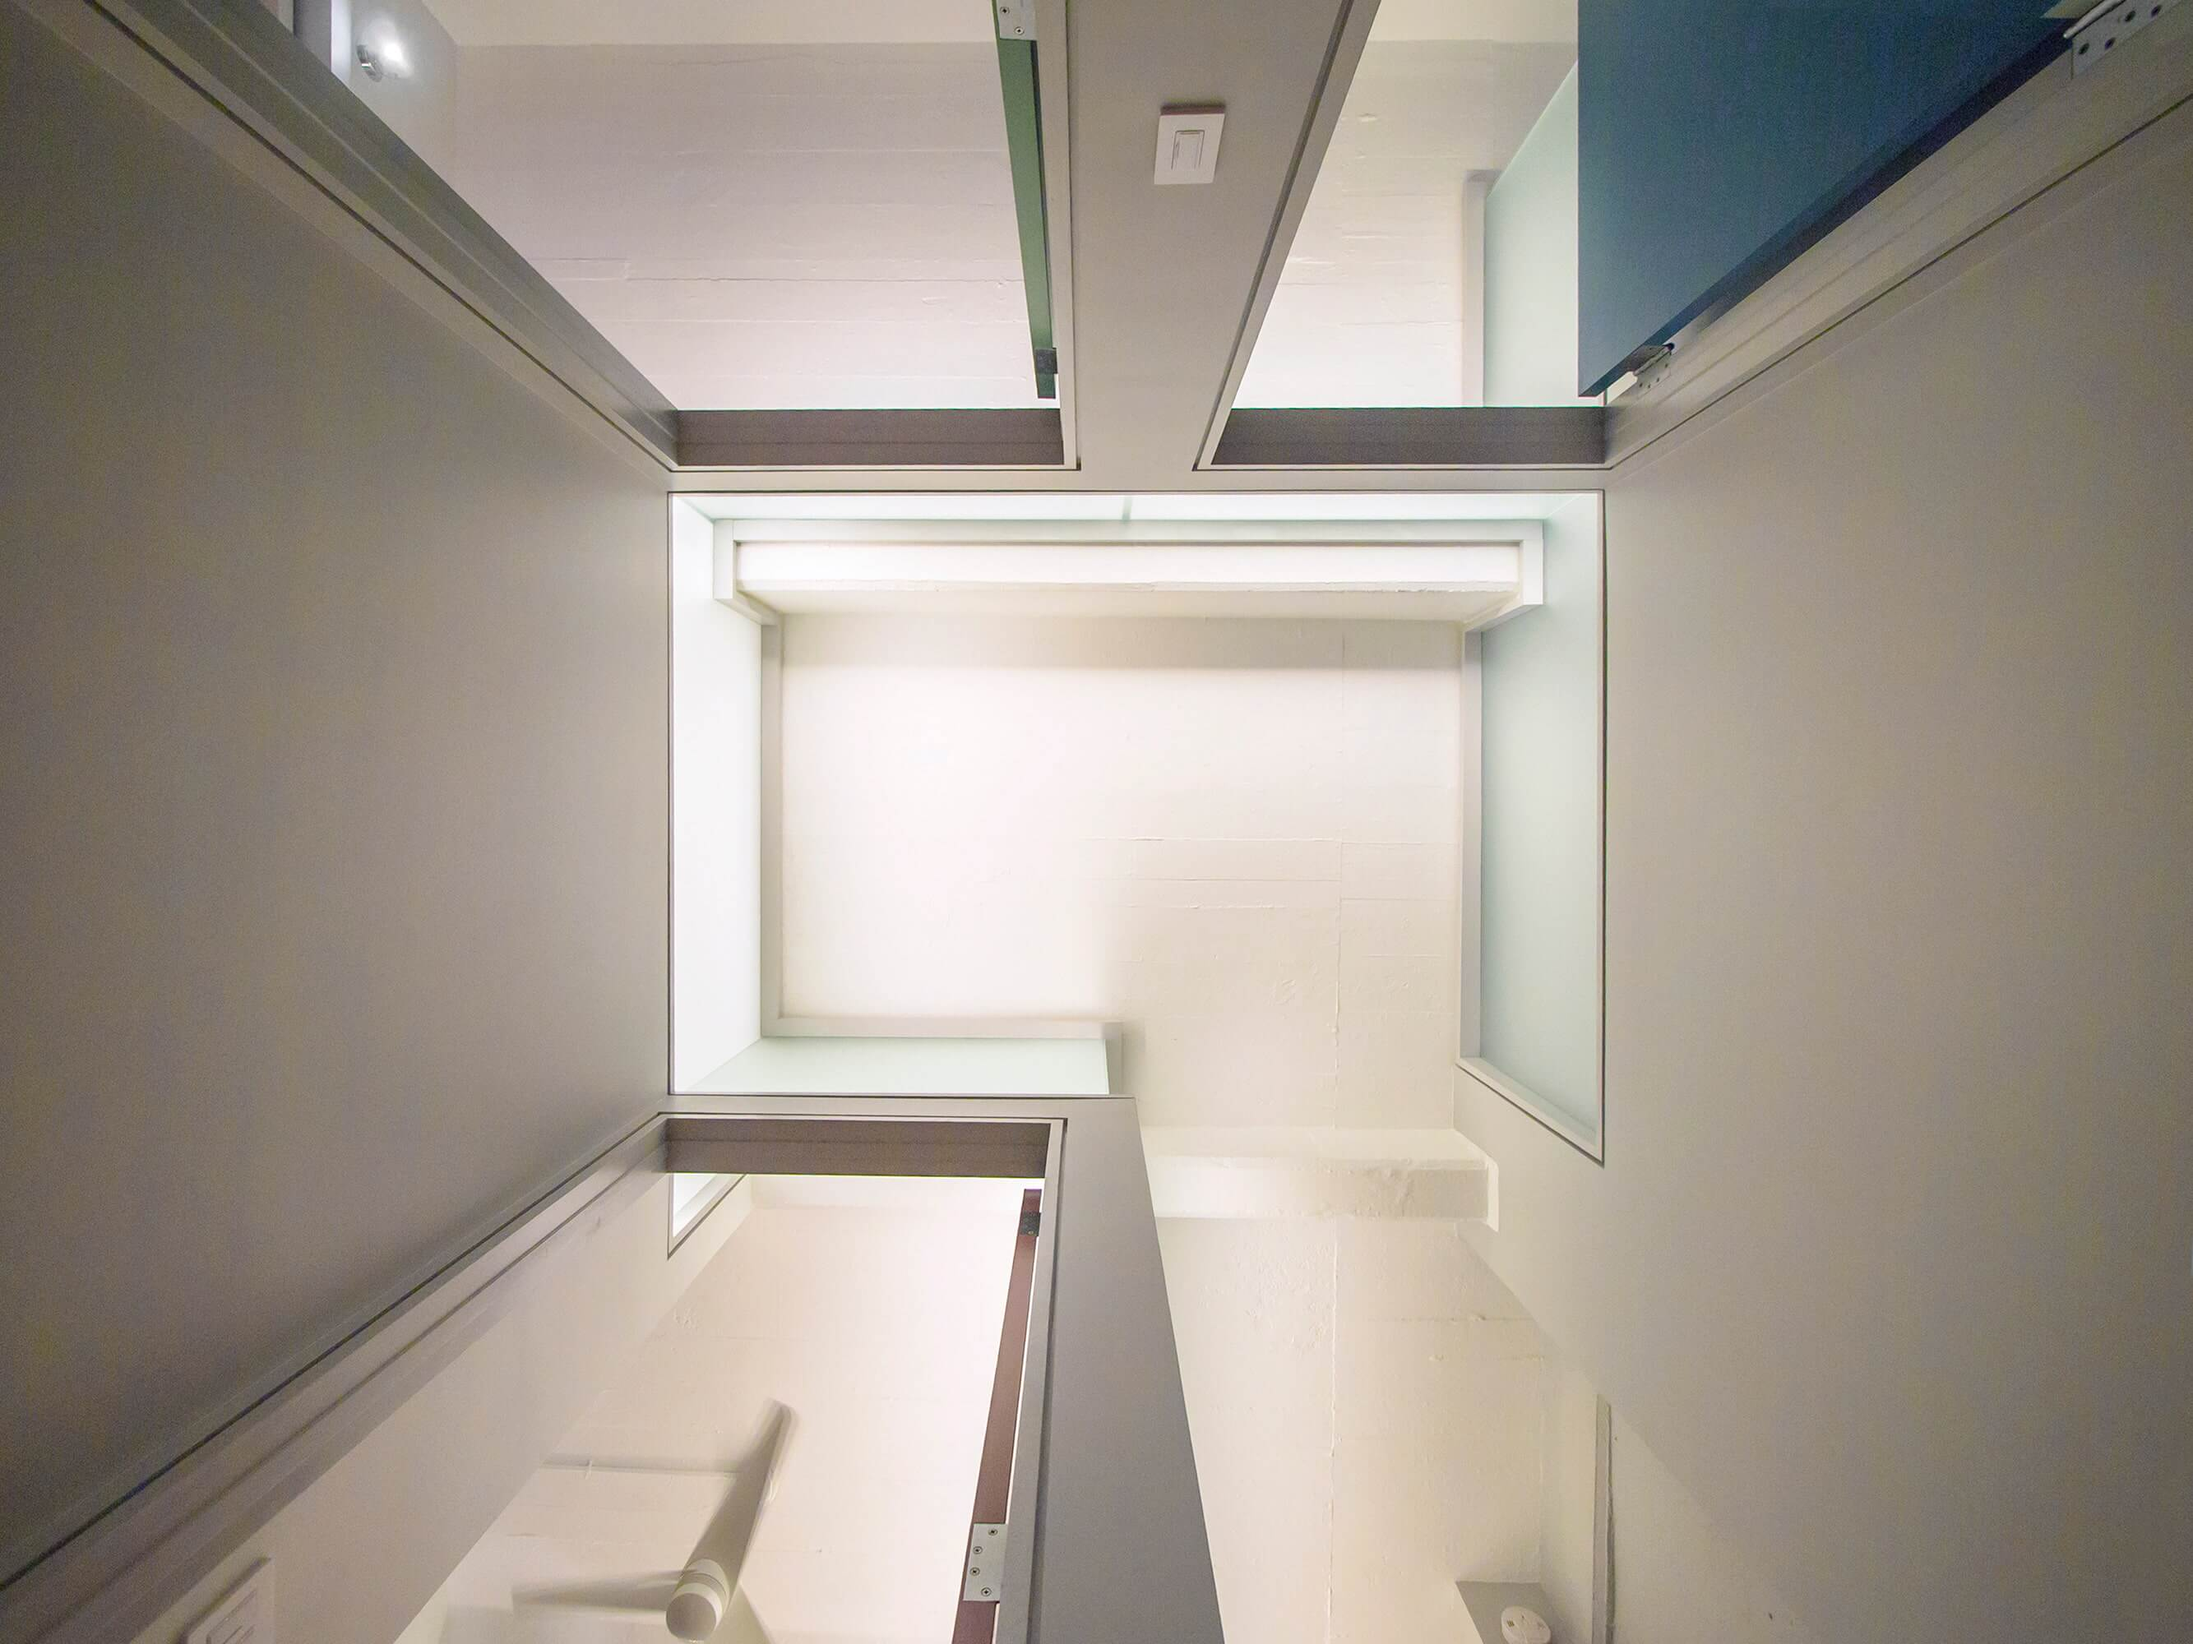
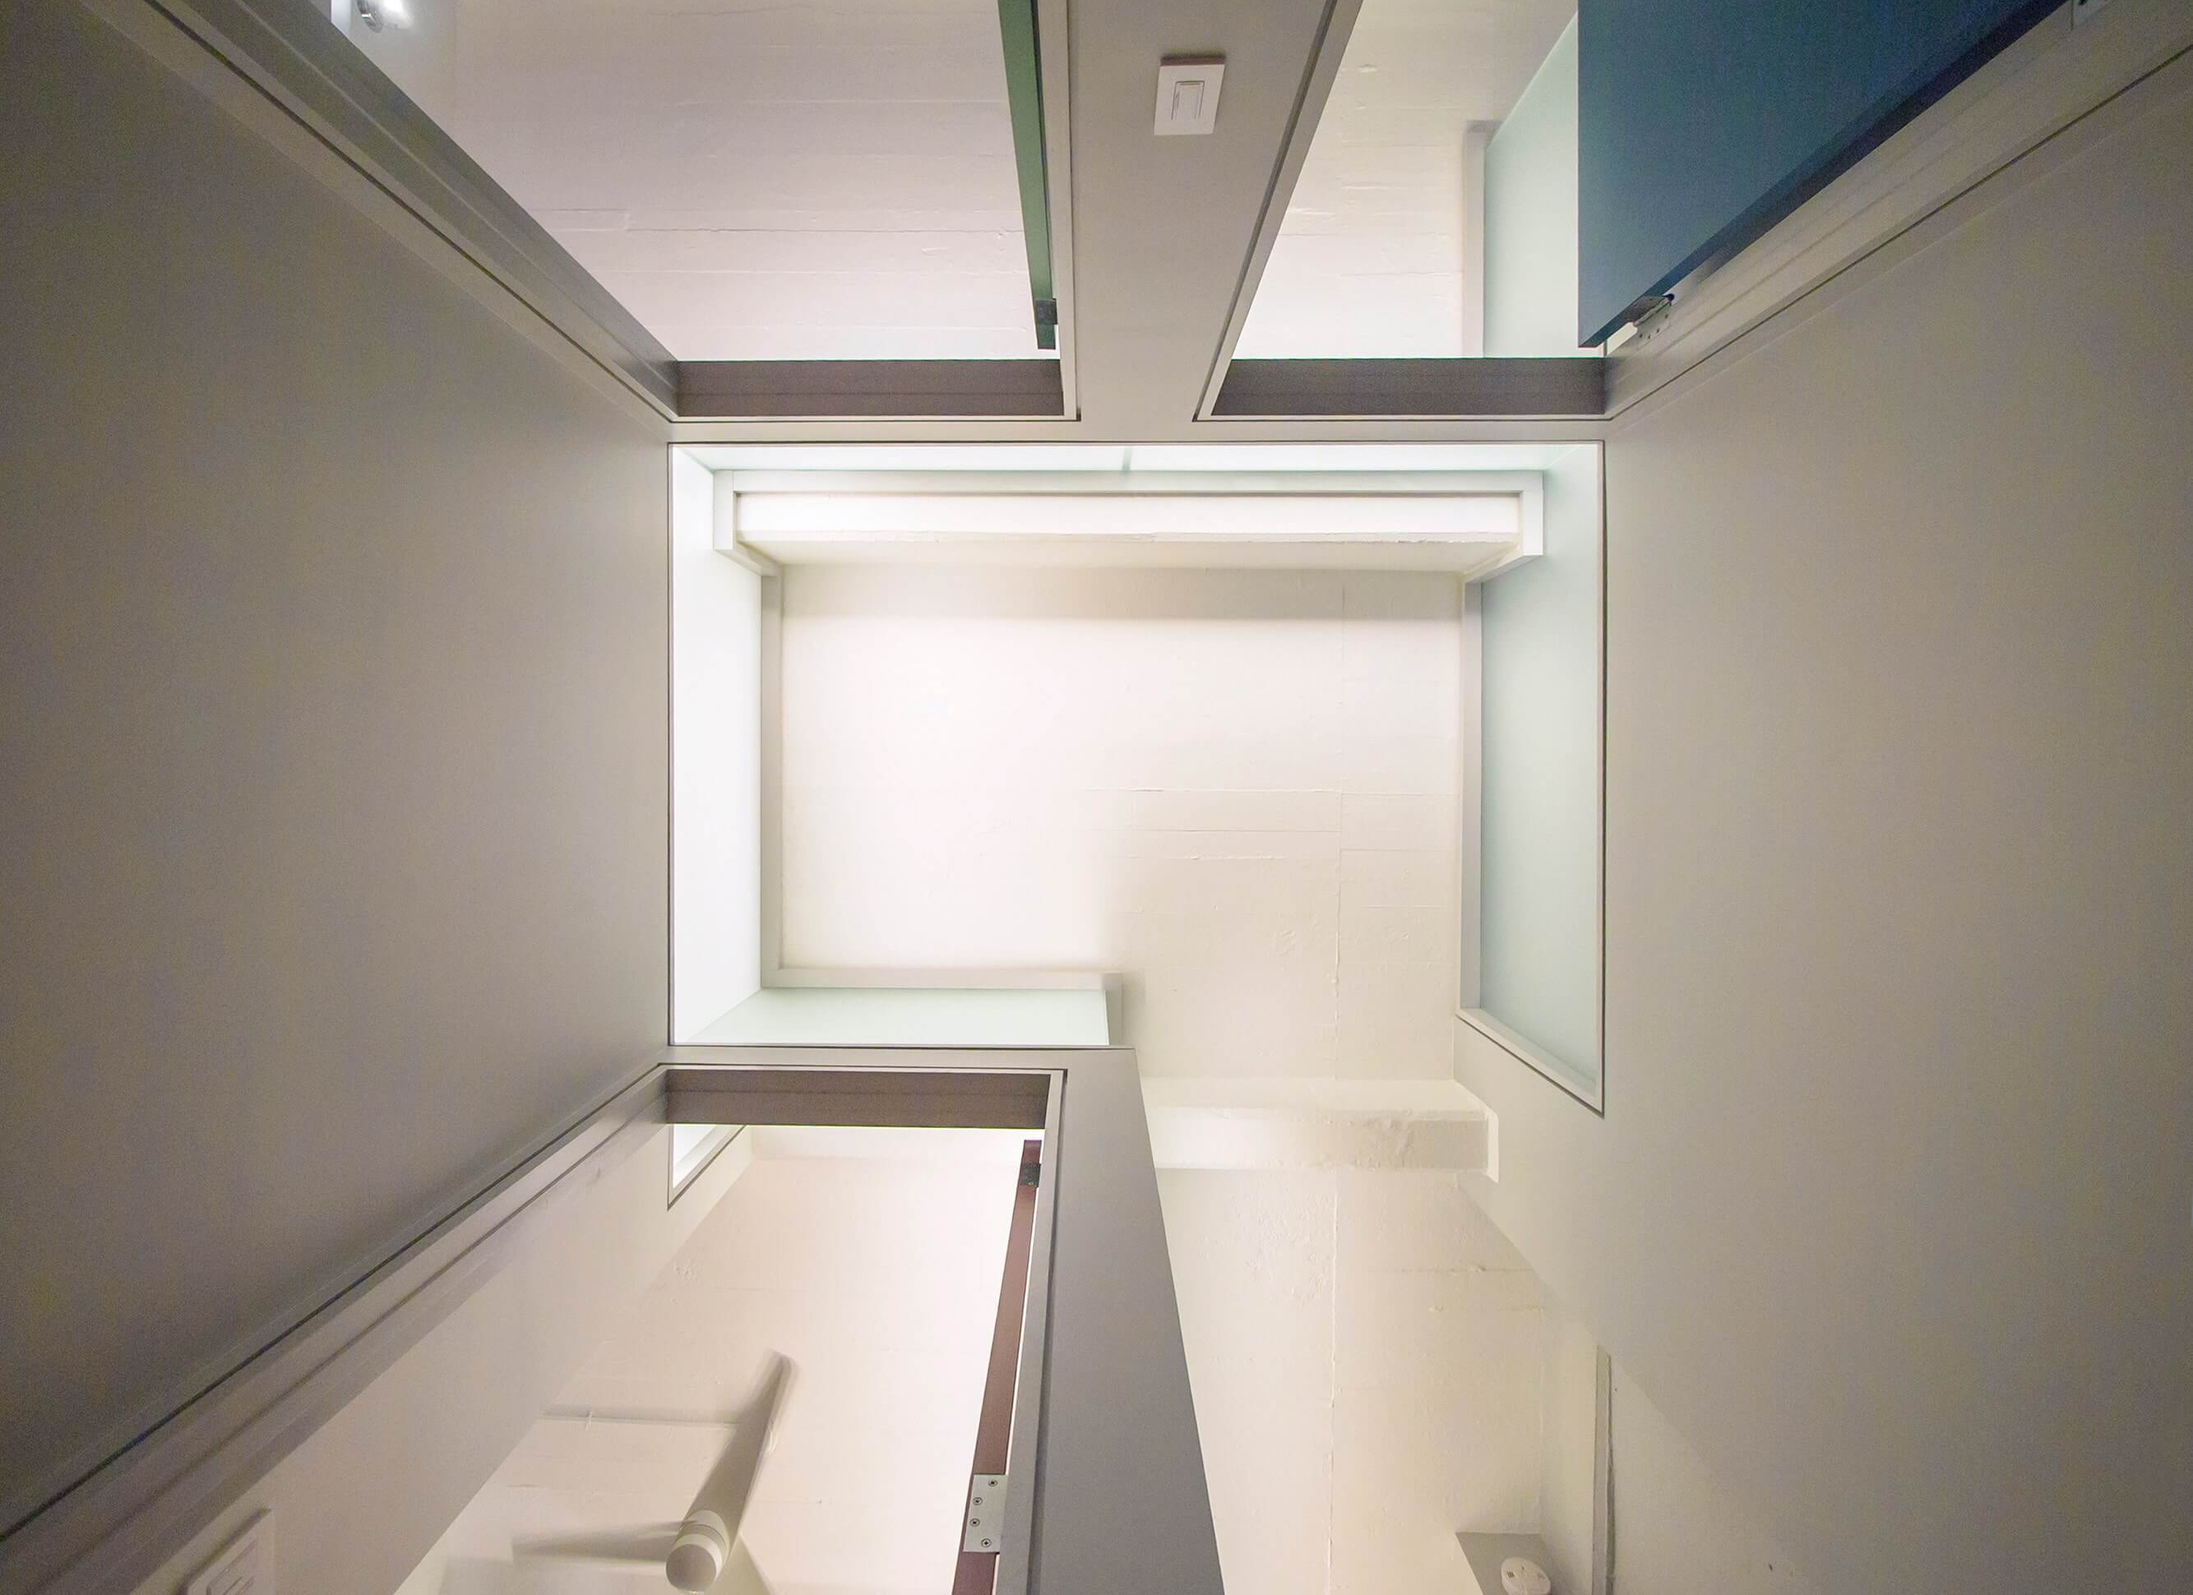
1

diff --git a/app.js b/app.js
@@ -100,8 +100,8 @@ let zone = 0; // -1 prev, 0 none, 1 next
 document.addEventListener("mousemove", (e) => {
   const w = window.innerWidth;
   const overHero = view === "top" && e.clientY <= hero.getBoundingClientRect().bottom && e.clientY >= 0;
-  if (overHero && e.clientX < w / 6) zone = -1;
-  else if (overHero && e.clientX > (w * 5) / 6) zone = 1;
+  if (overHero && e.clientX < w / 8) zone = -1;
+  else if (overHero && e.clientX > (w * 7) / 8) zone = 1;
   else zone = 0;
 
   if (zone !== 0) {

diff --git a/style.css b/style.css
@@ -112,7 +112,6 @@ body.detail .text-ui {
   transform: translate(-50%, -50%);
   font-size: 18px;
   letter-spacing: 0.25em;
-  text-transform: uppercase;
   color: #fff;
   opacity: 0;
   transition: opacity .25s ease;
@@ -154,6 +153,7 @@ body.detail .text-ui {
   margin-top: var(--padding-22);
   /* 按单词换行 */
   word-break: break-word;
+  line-height: normal;
 }
 
 .text-next {
